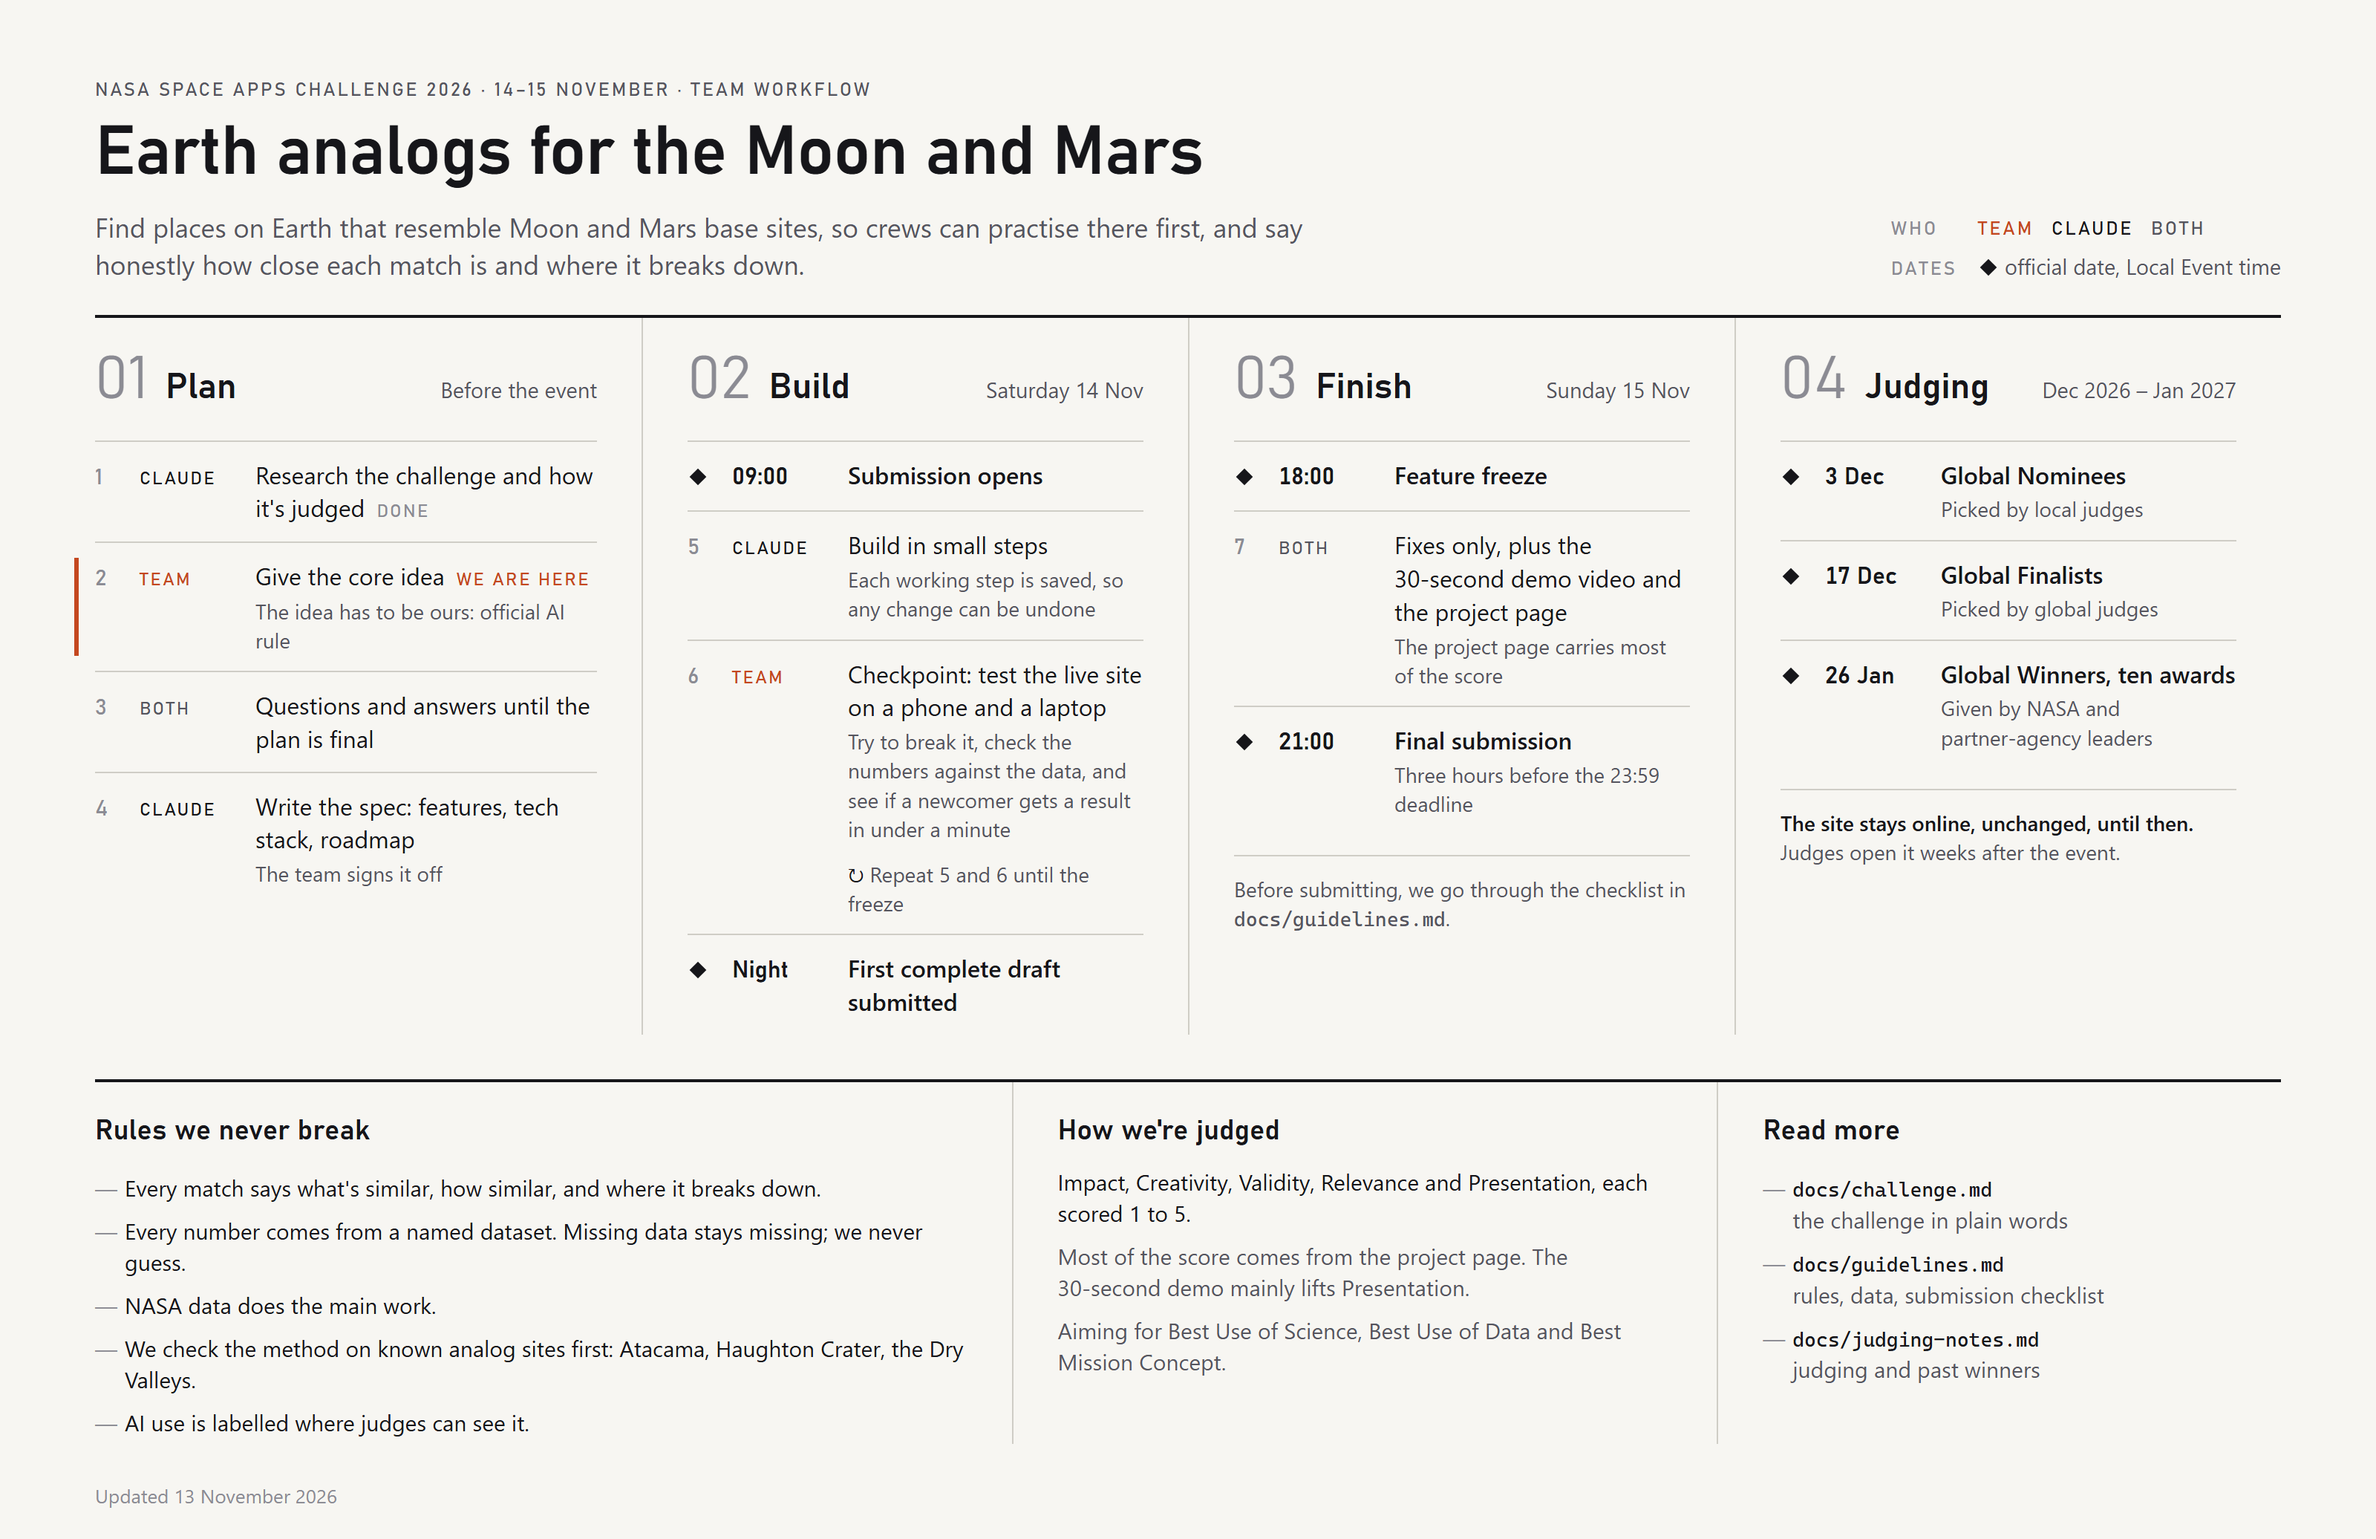
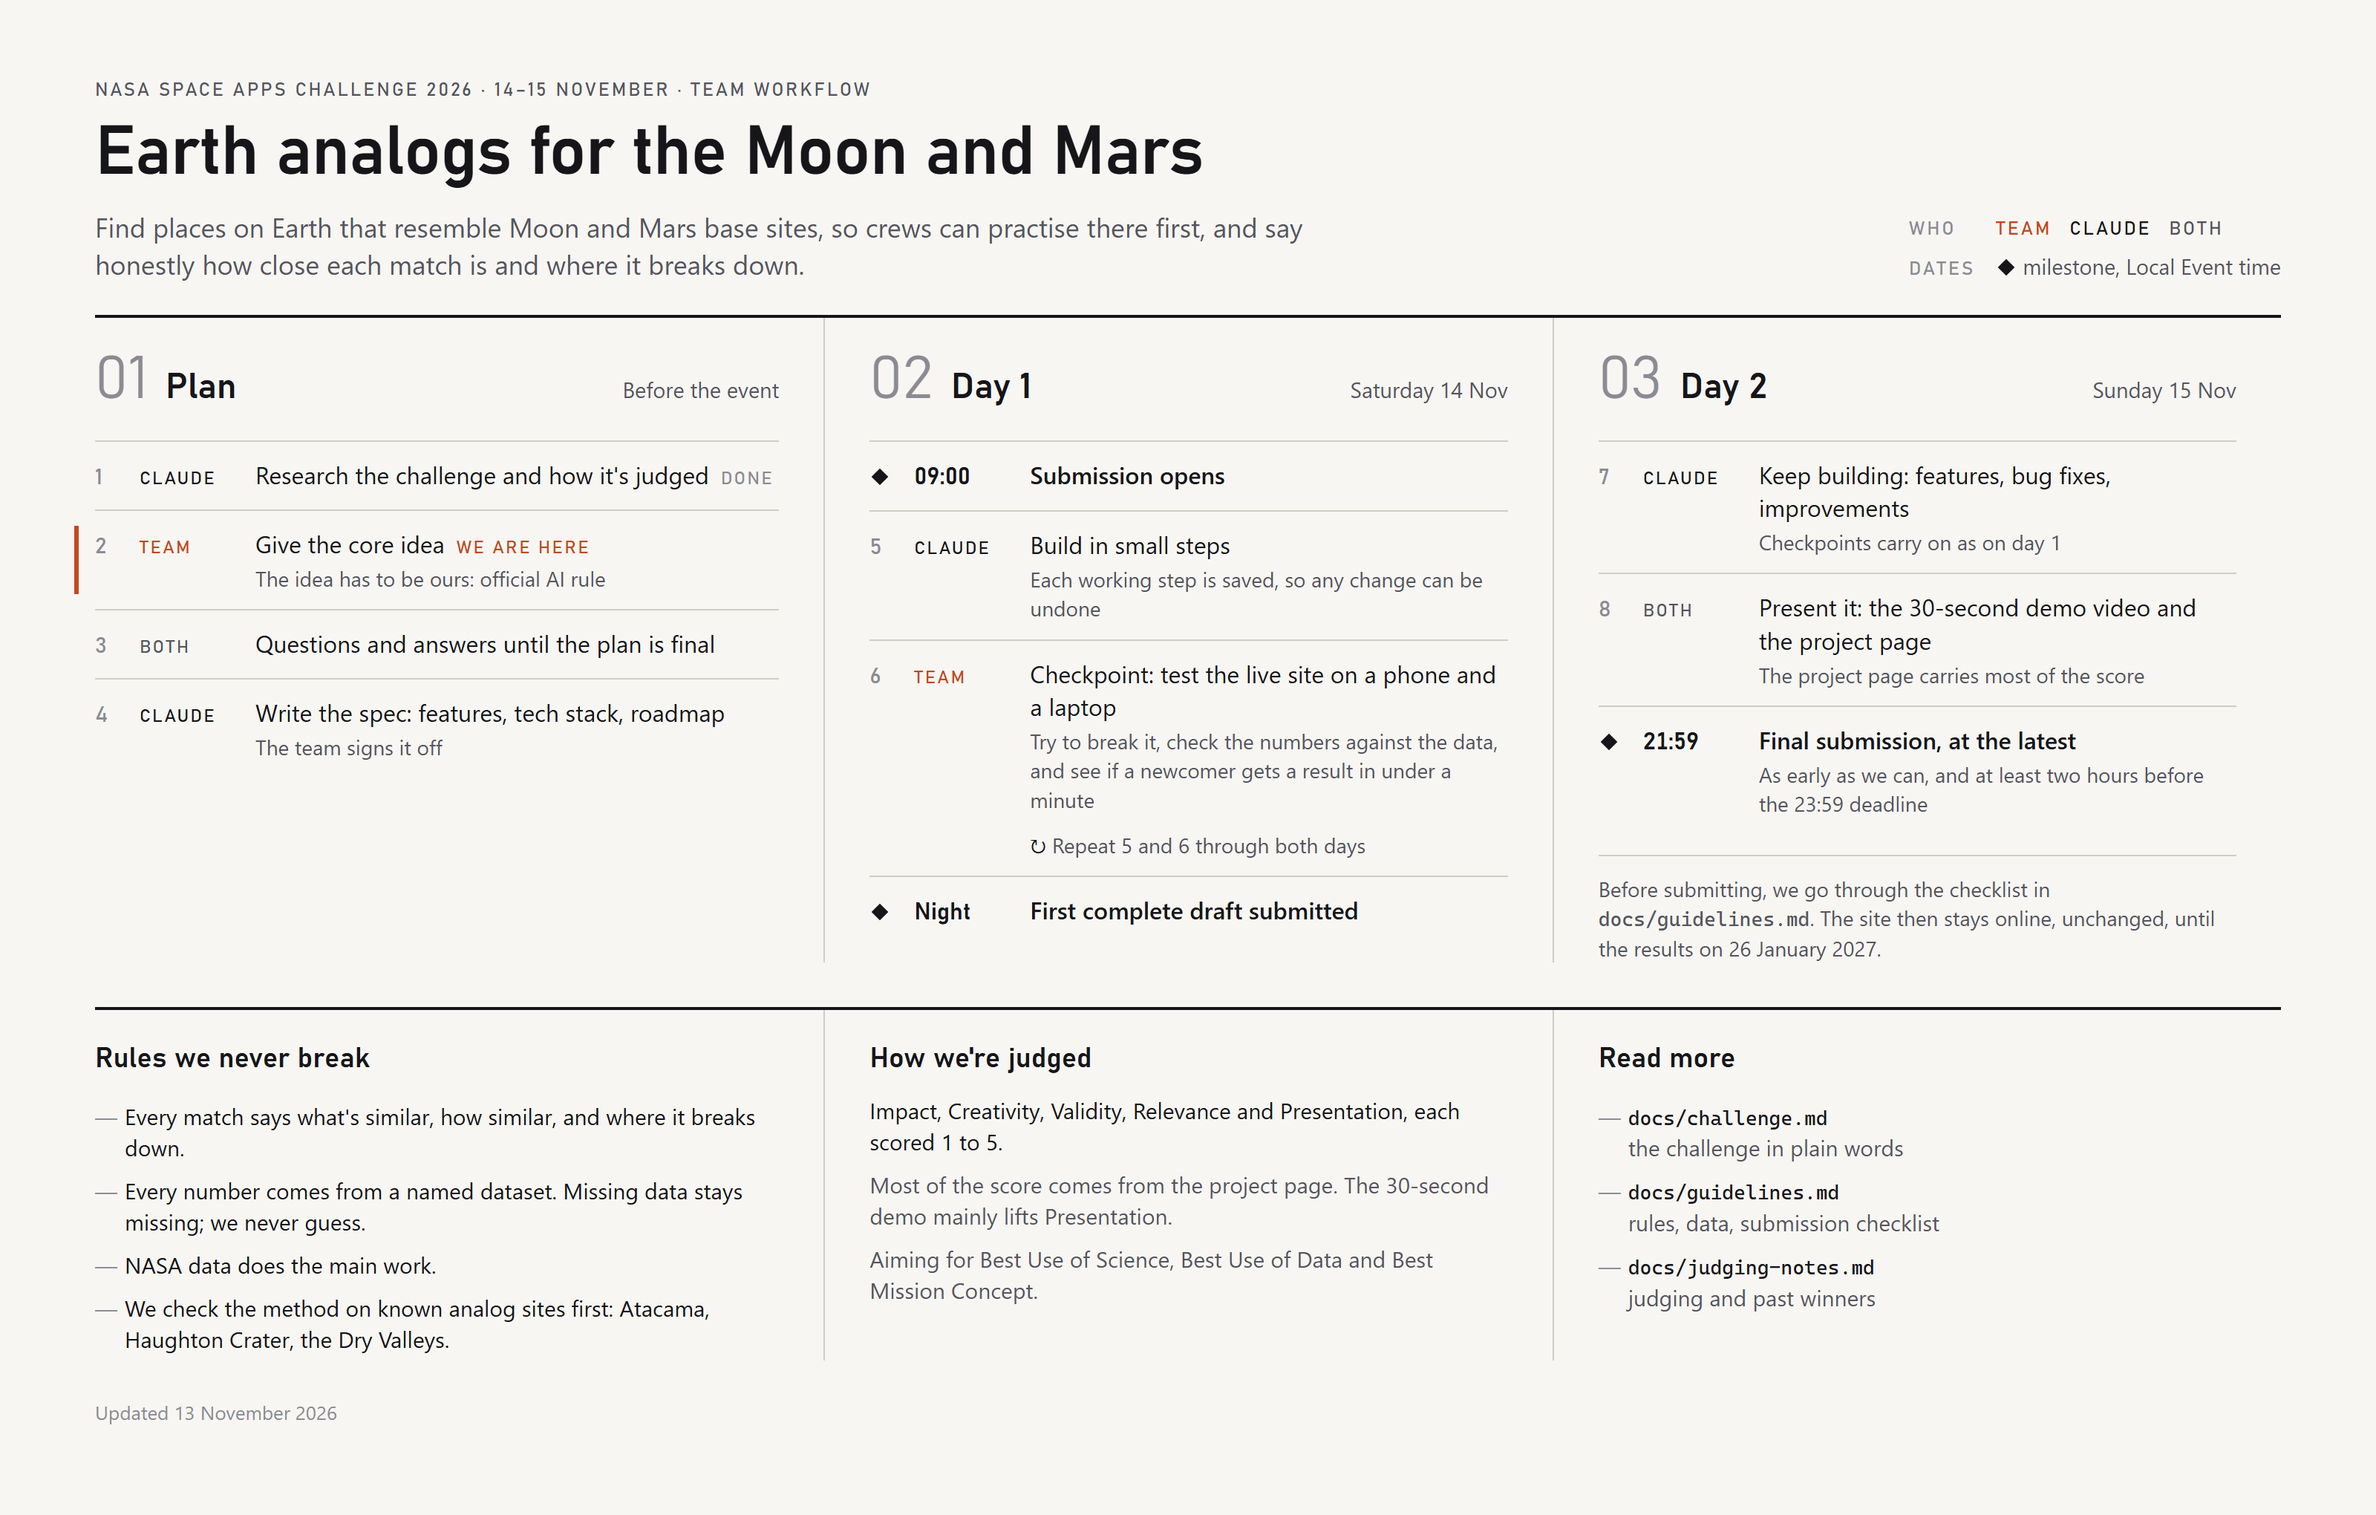
Drop the feature freeze, submit at least two hours early, and keep AI mentions to the footer and description

diff --git a/docs/workflow.html b/docs/workflow.html
@@ -13,7 +13,7 @@
     --accent: #c4471f;
   }
   * { box-sizing: border-box; margin: 0; padding: 0; }
-  html, body { width: 1600px; height: 1036px; }
+  html, body { width: 1600px; height: 1020px; }
   body {
     background: var(--paper);
     color: var(--ink);
@@ -36,13 +36,13 @@
   .both { color: var(--soft); }
   .dia { display: inline-block; width: 8px; height: 8px; background: var(--ink); transform: rotate(45deg); margin: 0 3px 1px; }
 
-  .cols { display: grid; grid-template-columns: 1fr 1fr 1fr 1fr; }
+  .cols { display: grid; grid-template-columns: 1fr 1fr 1fr; }
   .col { padding: 22px 30px 0 0; position: relative; }
   .col + .col { padding-left: 30px; border-left: 1px solid var(--rule); }
   .head { display: flex; align-items: baseline; gap: 12px; margin-bottom: 18px; }
   .head .n { font-family: Bahnschrift, sans-serif; font-weight: 300; font-size: 40px; line-height: 1; color: var(--faint); }
   .head h2 { font-family: Bahnschrift, sans-serif; font-weight: 600; font-size: 24px; }
-  .head .when { margin-left: auto; color: var(--soft); font-size: 14.5px; }
+  .head .when { margin-left: auto; color: var(--soft); font-size: 14.5px; white-space: nowrap; }
 
   .row { display: grid; grid-template-columns: 22px 70px 1fr; column-gap: 8px; padding: 11px 0; border-top: 1px solid var(--rule); align-items: baseline; }
   .row:first-of-type { border-top: none; }
@@ -63,7 +63,7 @@
   .foot { margin-top: 14px; padding-top: 12px; border-top: 1px solid var(--rule); font-size: 14px; color: var(--soft); }
   .foot b { color: var(--ink); font-weight: 600; }
 
-  .lower { display: grid; grid-template-columns: 1.3fr 1fr .8fr; margin-top: 30px; border-top: 2px solid var(--ink); }
+  .lower { display: grid; grid-template-columns: 1fr 1fr 1fr; margin-top: 30px; border-top: 2px solid var(--ink); }
   .lower section { padding: 20px 30px 0 0; }
   .lower section + section { padding-left: 30px; border-left: 1px solid var(--rule); }
   .lower h3 { font-family: Bahnschrift, sans-serif; font-weight: 600; font-size: 19px; margin-bottom: 10px; }
@@ -87,7 +87,7 @@
   </div>
   <div class="key">
     <span class="caps">Who</span><div><span class="caps team">Team</span> &nbsp; <span class="caps claude">Claude</span> &nbsp; <span class="caps both">Both</span></div>
-    <span class="caps">Dates</span><div><span class="dia"></span> official date, Local Event time</div>
+    <span class="caps">Dates</span><div><span class="dia"></span> milestone, Local Event time</div>
   </div>
 </div>
 
@@ -101,28 +101,20 @@
   </div>
 
   <div class="col">
-    <div class="head"><span class="n">02</span><h2>Build</h2><span class="when">Saturday 14 Nov</span></div>
+    <div class="head"><span class="n">02</span><h2>Day 1</h2><span class="when">Saturday 14 Nov</span></div>
     <div class="row ms"><span class="i"><span class="dia"></span></span><span class="o">09:00</span><span class="t">Submission opens</span></div>
     <div class="row"><span class="i">5</span><span class="o claude">Claude</span><span class="t">Build in small steps<small>Each working step is saved, so any change can be undone</small></span></div>
     <div class="row"><span class="i">6</span><span class="o team">Team</span><span class="t">Checkpoint: test the live site on a phone and a laptop<small>Try to break it, check the numbers against the data, and see if a newcomer gets a result in under a minute</small></span></div>
-    <div class="row" style="border-top:none;padding-top:0"><span></span><span></span><span class="repeat">Repeat 5 and 6 until the freeze</span></div>
+    <div class="row" style="border-top:none;padding-top:0"><span></span><span></span><span class="repeat">Repeat 5 and 6 through both days</span></div>
     <div class="row ms"><span class="i"><span class="dia"></span></span><span class="o">Night</span><span class="t">First complete draft submitted</span></div>
   </div>
 
   <div class="col">
-    <div class="head"><span class="n">03</span><h2>Finish</h2><span class="when">Sunday 15 Nov</span></div>
-    <div class="row ms"><span class="i"><span class="dia"></span></span><span class="o">18:00</span><span class="t">Feature freeze</span></div>
-    <div class="row"><span class="i">7</span><span class="o both">Both</span><span class="t">Fixes only, plus the 30&#8209;second demo video and the project page<small>The project page carries most of the score</small></span></div>
-    <div class="row ms"><span class="i"><span class="dia"></span></span><span class="o">21:00</span><span class="t">Final submission<small>Three hours before the 23:59 deadline</small></span></div>
-    <p class="foot">Before submitting, we go through the checklist in <code>docs/guidelines.md</code>.</p>
-  </div>
-
-  <div class="col">
-    <div class="head"><span class="n">04</span><h2>Judging</h2><span class="when">Dec 2026 – Jan 2027</span></div>
-    <div class="row ms"><span class="i"><span class="dia"></span></span><span class="o">3 Dec</span><span class="t">Global Nominees<small>Picked by local judges</small></span></div>
-    <div class="row ms"><span class="i"><span class="dia"></span></span><span class="o">17 Dec</span><span class="t">Global Finalists<small>Picked by global judges</small></span></div>
-    <div class="row ms"><span class="i"><span class="dia"></span></span><span class="o">26 Jan</span><span class="t">Global Winners, ten awards<small>Given by NASA and partner&#8209;agency leaders</small></span></div>
-    <p class="foot"><b>The site stays online, unchanged, until then.</b> Judges open it weeks after the event.</p>
+    <div class="head"><span class="n">03</span><h2>Day 2</h2><span class="when">Sunday 15 Nov</span></div>
+    <div class="row"><span class="i">7</span><span class="o claude">Claude</span><span class="t">Keep building: features, bug fixes, improvements<small>Checkpoints carry on as on day 1</small></span></div>
+    <div class="row"><span class="i">8</span><span class="o both">Both</span><span class="t">Present it: the 30&#8209;second demo video and the project page<small>The project page carries most of the score</small></span></div>
+    <div class="row ms"><span class="i"><span class="dia"></span></span><span class="o">21:59</span><span class="t">Final submission, at the latest<small>As early as we can, and at least two hours before the 23:59 deadline</small></span></div>
+    <p class="foot">Before submitting, we go through the checklist in <code>docs/guidelines.md</code>. The site then stays online, unchanged, until the results on 26 January 2027.</p>
   </div>
 </div>
 
@@ -134,7 +126,6 @@
       <li>Every number comes from a named dataset. Missing data stays missing; we never guess.</li>
       <li>NASA data does the main work.</li>
       <li>We check the method on known analog sites first: Atacama, Haughton Crater, the Dry Valleys.</li>
-      <li>AI use is labelled where judges can see it.</li>
     </ul>
   </section>
   <section>

diff --git a/docs/guidelines.md b/docs/guidelines.md
@@ -26,7 +26,7 @@ Source: the Space Apps [Participant FAQ](https://www.spaceappschallenge.org/reso
   - images and video: a visible watermark;
   - audio: a note in the description and file metadata;
   - code and data: a note in the description and metadata.
-- The form's AI question is **not shown to judges**; they only see what's in the project. So the AI note goes in the README, on the site, and in the project page's description.
+- The form's AI question is **not shown to judges**, so we note AI use once where it fits: the site's footer, the project description and the README. We don't repeat it elsewhere.
 - Nothing AI-generated may use or change NASA branding: no NASA logos, flags or mission insignia.
 
 **Other**
@@ -90,8 +90,8 @@ The challenge says this outright, and it's also how we'll stand out:
 - **Claude** builds and polishes the project; see [CLAUDE.md](../CLAUDE.md).
 - **Keep it working.** Commit and push to `research` after every change that works, so any step can be undone.
 - **Checkpoints** (the roadmap sets the times): the live site is deployed, and both of us test it on a phone and a laptop. Try to break it, check the numbers on screen against the source data, read the text as a newcomer would, and check that a newcomer can get a result in under a minute without help.
-- **Feature freeze: Sunday 18:00.** After that, only fixes, the demo and the project page.
-- **Submit a first complete draft by Saturday night**, then improve it. Final submission by **Sunday 21:00**, three hours before the deadline.
+- **Day 2 (Sunday)** keeps building (features, bug fixes, improvements) alongside the presenting: the demo video and the project page.
+- **Submit a first complete draft by Saturday night**, then improve it. Final submission as early as we can, and by **Sunday 21:59** at the latest, two hours before the deadline.
 - If something has been stuck for an hour, cut it or switch to the planned fallback.
 
 ## 7. Before we click "Submit for Judging"
@@ -101,7 +101,7 @@ The challenge says this outright, and it's also how we'll stand out:
 - [ ] Final project link opens in a private window, with no login
 - [ ] NASA datasets named, with links; every other source listed
 - [ ] Images pasted on the page, including a "where it breaks" example
-- [ ] AI note visible on the project page and the site; AI images watermarked; no NASA branding in AI output
+- [ ] AI note in the site footer and the project description; AI images watermarked; no NASA branding in AI output
 - [ ] Site needs no upkeep until 26 Jan 2027; submitted version tagged
 - [ ] No under-18 likenesses
 - [ ] "Terms and Conditions" and "Confirm All Work is Original" ticked; the success banner shows after submitting

diff --git a/CLAUDE.md b/CLAUDE.md
@@ -16,5 +16,5 @@ Code goes where the plan's tech stack puts it.
 
 - **Build it the best way you can.** Use whatever setup gets the best result (an orchestrator, subagents, any model, parallel work) and check each result against tests before committing. Bring the team decisions and checkpoint results.
 - **The core idea comes from the team** (official AI rule). Building and polishing it is Claude's job. Propose improvements to the idea and the project wherever you see one, without waiting to be asked, and say when an idea is Claude's own.
-- **Keep the "How we used AI" note accurate** in the README, on the site and in the project description, because judges don't see the form's AI answer. This replaces the global "no AI attribution" rule for this repo only. Still no `Co-Authored-By` trailers or "Generated with" footers in commits or PRs.
+- **Keep the "How we used AI" note accurate** in the README, the site's footer and the project description, because judges don't see the form's AI answer. Mention AI use only in those places, not throughout. This replaces the global "no AI attribution" rule for this repo only. Still no `Co-Authored-By` trailers or "Generated with" footers in commits or PRs.
 - **Plain language** in chat and user-facing text; exact values belong in technical docs.
